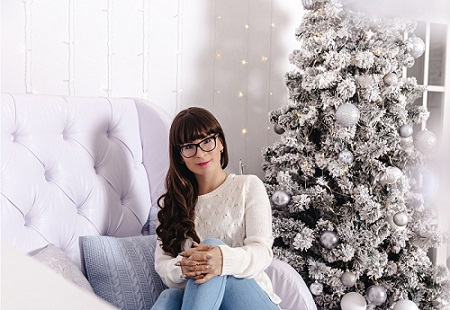
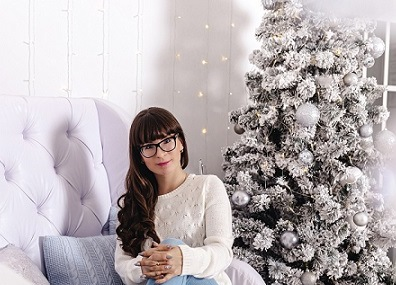
adding material to the section to teachers

diff --git a/teachers.html b/teachers.html
@@ -58,25 +58,28 @@
             </ul>
         </nav>
     </header>
-
     <h2 class="name_title">Куратору</h2>
     <div style='text-align:center; display:block;
     height:100%; width:100%;'> <a href="https://drive.google.com/drive/folders/156OQLgWofLvZa5g3DNGCJMmQOaD6iUfH?usp=sharing" class="download_presentation">Правила поведения учащихся в лицее(скачать)</a><br>
         <a href="https://drive.google.com/drive/folders/156OQLgWofLvZa5g3DNGCJMmQOaD6iUfH?usp=sharing" class="download_presentation">ПРОТОКОЛ ознакомления учащихся с правилами электробезопасности (скачать)</a><br>
-        <a href="https://drive.google.com/drive/folders/156OQLgWofLvZa5g3DNGCJMmQOaD6iUfH?usp=sharing" class="download_presentation">ВЕДОМОСТЬ ознакомления учащихся с приказом директора лицея №    от   «О запрете курения на территории лицея» (скачать)</a>        <br>
-        <a href="https://drive.google.com/drive/folders/156OQLgWofLvZa5g3DNGCJMmQOaD6iUfH?usp=sharing" class="download_presentation">Инструктаж о правилах безопасности (скачать)</a><br>
-        <a href="https://drive.google.com/drive/folders/156OQLgWofLvZa5g3DNGCJMmQOaD6iUfH?usp=sharing" class="download_presentation">ПРОТОКОЛ проведения инструктажа с учащимися группы  _______ «О недопустимости участия учащихся лицея в асоциальных группировках, экстремистских организациях и акциях противоправной направленности», «Об ответственности за совершение правонарушений и преступлений» (скачать)</a><br>
-        <a href="https://drive.google.com/drive/folders/156OQLgWofLvZa5g3DNGCJMmQOaD6iUfH?usp=sharing" class="download_presentation">ВЕДОМОСТЬ
+        <a href="https://drive.google.com/file/d/15DzzWKFariC124Und1077vqkrEjoRS7x/view?usp=sharing" class="download_presentation">ВЕДОМОСТЬ ознакомления учащихся с приказом директора лицея № от «О запрете курения на территории лицея» (скачать)</a> <br>
+        <a href="https://drive.google.com/file/d/1uBeC-PEass55P8ADnWGt9fJVJypr3OkA/view?usp=sharing" class="download_presentation">Инструктаж о правилах безопасности (скачать)</a><br>
+        <a href="https://drive.google.com/file/d/1y7p-TAc-dJPNNUMA90JlZj143Y_LP4Cx/view?usp=sharing" class="download_presentation">ПРОТОКОЛ проведения инструктажа с учащимися группы  _______ «О недопустимости участия учащихся лицея в асоциальных группировках, экстремистских организациях и акциях противоправной направленности», «Об ответственности за совершение правонарушений и преступлений» (скачать)</a><br>
+        <a href="https://drive.google.com/file/d/164lZ0ixBBpGOpy9oLawlnzQF9Z5GriXk/view?usp=sharing" class="download_presentation">ВЕДОМОСТЬ
             ознакомления учащихся с Декретом Президента РБ от 28.12.2014г. №6
-            «О неотложных мерах по противодействию и незаконному обороту наркотиков»            
-             (скачать)</a> <br>
-        <a href="https://drive.google.com/drive/folders/156OQLgWofLvZa5g3DNGCJMmQOaD6iUfH?usp=sharing" class="download_presentation">ВЕДОМОСТЬ
-            ознакомления учащихся с ст.212 УК РБ Хищение путем использования компьютерной техники и Правилами поведения и общения в социальных сетях
+            «О неотложных мерах по противодействию и незаконному обороту наркотиков» и Выдержки из Декрета № 6 Президента Республики Беларусь  (скачать)</a> <br>
+        <a href="https://drive.google.com/file/d/1056fWLrDVIvvyA_LyUzQpAIcl9E_k9Iz/view?usp=sharing" class="download_presentation">Статья 212 УК Беларуси (Хищение путем использования компьютерной техники) и ВЕДОМОСТЬ ознакомления учащихся с ст.212 УК РБ Хищение путем использования компьютерной техники и Правилами поведения и общения в социальных сетях(скачать)
             </a><br>
-        <a href="https://drive.google.com/drive/folders/156OQLgWofLvZa5g3DNGCJMmQOaD6iUfH?usp=sharing" class="download_presentation">Скачать презентацию и материал по мероприятию</a>
-        <a href="https://drive.google.com/drive/folders/156OQLgWofLvZa5g3DNGCJMmQOaD6iUfH?usp=sharing" class="download_presentation">Скачать презентацию и материал по мероприятию</a>
-        <a href="https://drive.google.com/drive/folders/156OQLgWofLvZa5g3DNGCJMmQOaD6iUfH?usp=sharing" class="download_presentation">Скачать презентацию и материал по мероприятию</a>
-        <a href="https://drive.google.com/drive/folders/156OQLgWofLvZa5g3DNGCJMmQOaD6iUfH?usp=sharing" class="download_presentation">Скачать презентацию и материал по мероприятию</a>
+        <a href="https://drive.google.com/file/d/1KDGP_U-GxXKr9fHi6SpGjRikMRGOpI6C/view?usp=sharing" class="download_presentation">ПРОТОКОЛ ознакомления родителей учащихся
+            Памятки «Ответственность родителей за воспитание и содержание детей», «Тихая война против человечества» (спайс, наркотики), «Профилактика суицидального поведения» «____»__________20__года,  группа  _______ (скачать)</a><br>
+        <a href="https://drive.google.com/file/d/173fe7o5kwo2hSpchkaONxRtBbjueLnUC/view?usp=sharing" class="download_presentation">Инструкция по правилам безопасного поведения на железной дороге для учащихся УО «ГГПЛ строителей» и ВЕДОМОСТЬ
+        по правилам безопасного поведения на железной дороге для учащихся УО «ГГПЛ строителей» Группа__________ (скачать)</a><br>
+        <a href="https://drive.google.com/file/d/1rXeb9MQZ82oXEgEDqsdjhFdWAakHZmkL/view?usp=sharing" class="download_presentation">Ознакомление УК РБ со ст.186, ст.185 (преступления против личной свободы, чести и достоинства) ст.288 (преступление против общественной опасности), ст.155(преступления против жизни и здоровья), ст.339 (преступление против общественного порядка и общественной нравственности) и ПРОТОКОЛ проведения инструктажа с учащимися
+        по ознакомлению УК РБ со ст.186, ст.185 (преступления против личной свободы, чести и достоинства) ст.288 (преступление против общественной опасности), ст.155(преступления против жизни и здоровья), ст.339 (преступление против общественного порядка и общественной нравственности) 
+         «____»__________201_ года,  группа  _______</a> <br>
+        <a href="https://drive.google.com/file/d/1OJ-Qm50BuDFa8uRVhQhWo_vQJ84YlkBm/view?usp=sharing" class="download_presentation">ПРОТОКОЛ проведения инструктажа с учащимися УК РБ Статья 295. Незаконные действия в отношении огнестрельного оружия, боеприпасов и взрывчатых веществ КоАП Статья 17.14. Незаконное изготовление и (или) распространение методик либо иных материалов о способах изготовления взрывных устройств и взрывчатых веществ
+        КоАП Статья 23.48. Hарушение правил обращения с огнестрельным оружием, взрывоопасными, легковоспламеняющимися, едкими веществами или пиротехническими изделиями «____»__________20__ года,  группа _______
+            </a>
         <a href="https://drive.google.com/drive/folders/156OQLgWofLvZa5g3DNGCJMmQOaD6iUfH?usp=sharing" class="download_presentation">Скачать презентацию и материал по мероприятию</a>
         <a href="https://drive.google.com/drive/folders/156OQLgWofLvZa5g3DNGCJMmQOaD6iUfH?usp=sharing" class="download_presentation">Скачать презентацию и материал по мероприятию</a>
         <a href="https://drive.google.com/drive/folders/156OQLgWofLvZa5g3DNGCJMmQOaD6iUfH?usp=sharing" class="download_presentation">Скачать презентацию и материал по мероприятию</a>

diff --git a/style.css b/style.css
@@ -35,7 +35,7 @@ nav {
 }
 
 header {
-    border: 3px solid #2a6be4;
+    border: 1px solid #2a6be4;
 }
 
 nav ul {
@@ -401,8 +401,17 @@ th {
     }
     .intro_photo {
         display: inline;
-        padding-bottom: 30px;
         padding-top: 30px;
+        width: max-content;
+        height: 350px;
+        margin-bottom: 6rem;
+    }
+    .container {
+        width: 350px;
+    }
+    .intro_content {
+        margin-top: 0%;
+        margin-bottom: 40px;
     }
 }
 
@@ -435,6 +444,10 @@ th {
         display: inline;
         padding-bottom: 30px;
         padding-top: 30px;
+        margin: 0px;
+        margin-right: 30px;
+        height: 200px;
+        width: 300px;
     }
     table {
         width: 20px;
@@ -461,6 +474,9 @@ th {
     header {
         width: 100%;
         height: 100%;
+    }
+    .container {
+        width: 305px;
     }
 }
 
@@ -493,6 +509,7 @@ th {
         display: inline;
         padding-bottom: 30px;
         padding-top: 30px;
+        margin: 0px;
     }
     table {
         width: 20px;
@@ -515,7 +532,7 @@ th {
         bottom: 0;
         height: auto;
         width: auto;
-        background: linear-gradient(45deg, rgba(0, 0, 0, 0), rgba(255, 255, 255, .8));
+        /* background: linear-gradient(45deg, rgba(0, 0, 0, 0), rgba(255, 255, 255, .8)); */
     }
     header {
         width: 100%;
@@ -532,6 +549,9 @@ th {
     }
     .name_title {
         position: relative;
+    }
+    .container {
+        width: 320px;
     }
 }
 

diff --git a/index.html b/index.html
@@ -56,6 +56,7 @@
                 </li>
                 <li><a href="./parents.html">Родителям</a></li>
                 <li><a href="./teachers.html">Куратору</a></li>
+                <li><a href="./teachers.html">Дистанционная площадка</a></li>
             </ul>
         </nav>
     </header>
@@ -105,6 +106,13 @@
             maxSize: 50,
         });
     </script>
+
+    <script type="text/javascript">
+        {
+            if (screen.width > 780) document.write('<script type="text/javascript" src="./snow-it.js" ></sc' + 'ript>');
+        }
+    </script>
 </body>
+<!-- <a href="https://ru.freepik.com/vectors/background">Background вектор создан(а) freepik - ru.freepik.com</a> -->
 
 </html>
